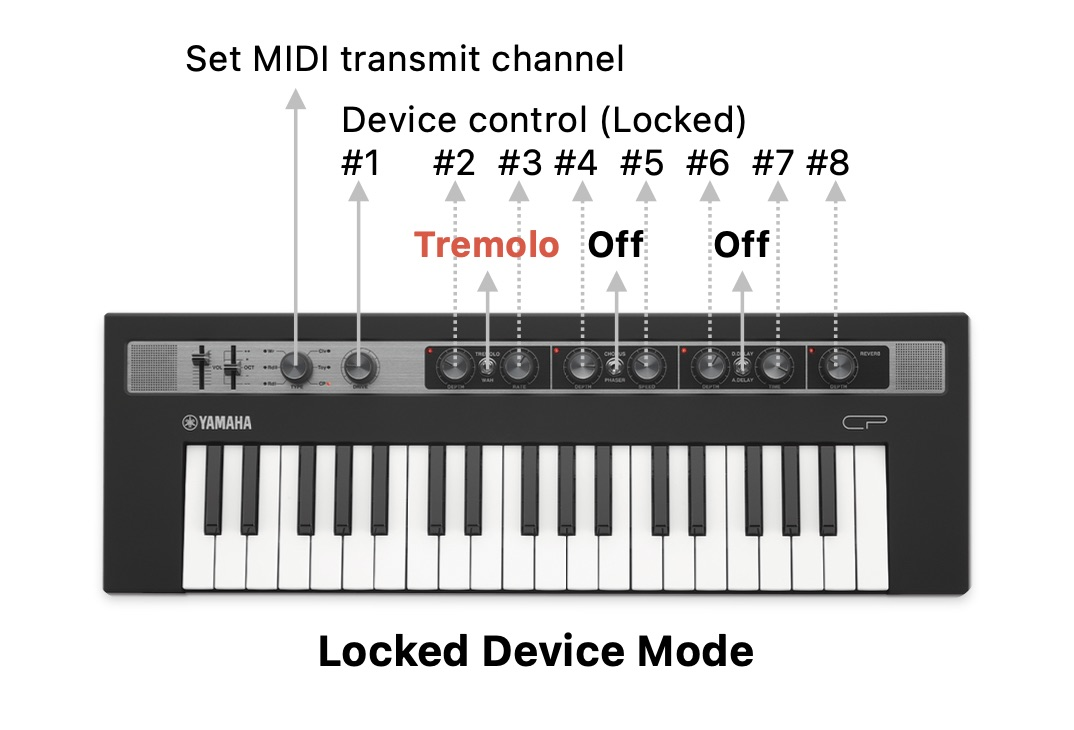
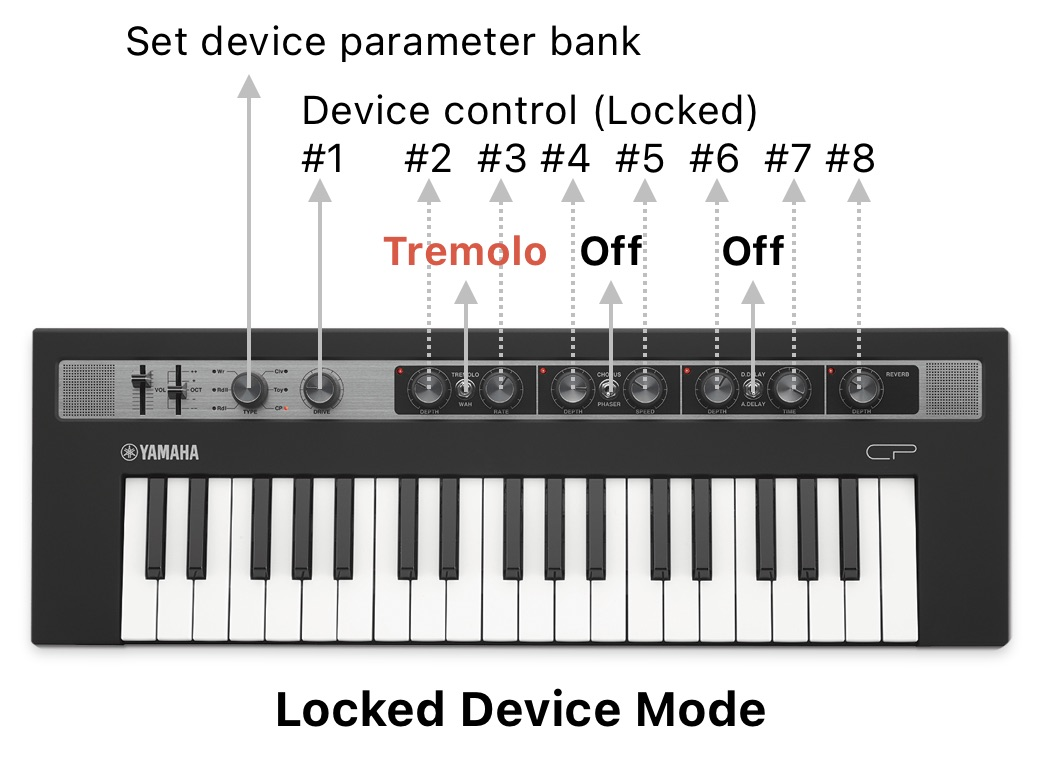
added parameter bank docs

Changed region(s): [[0.0307, 0.0301, 0.9808, 0.9644]]

diff --git a/README.md b/README.md
@@ -71,6 +71,8 @@ This also provides a lot more of flexibility to the custom MIDI mappings since e
 	<img src="Images/locked_device_mode.jpg" alt="Locked Device Mode" width="50%" />
 </p>
 
+While the device is locked, the **Wave type knob** can be used to select the device parameter bank. 
+
 * **Wah On**: Enables the **Track mode**. This allows changing the selected track's volume, panning, sends A and B as well as the Mute, Solo and Arm buttons. In this mode the `Drive` knob is connected to the currently selected parameter in Live which can be very handy for quick automations.
 
 <p align="center">
